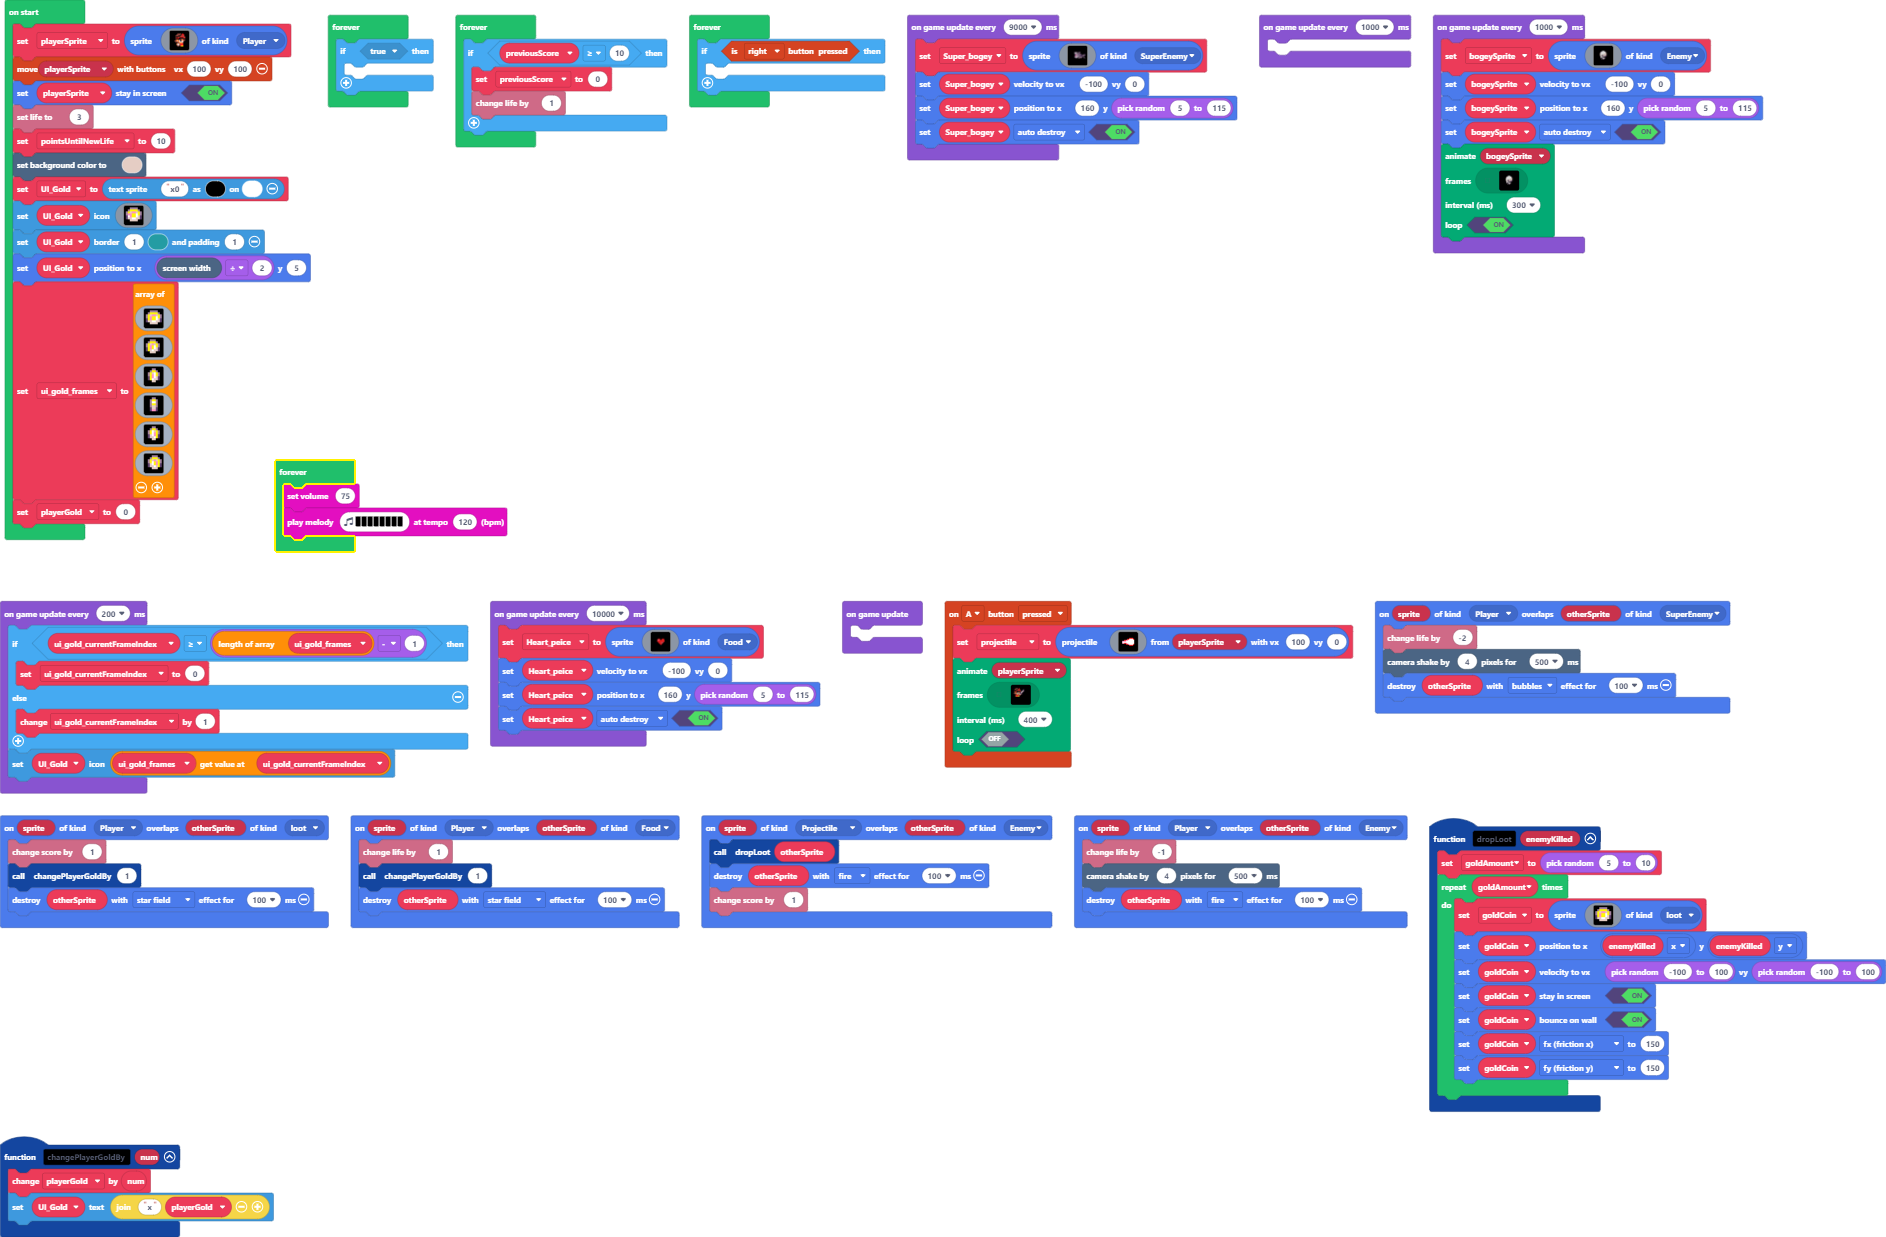
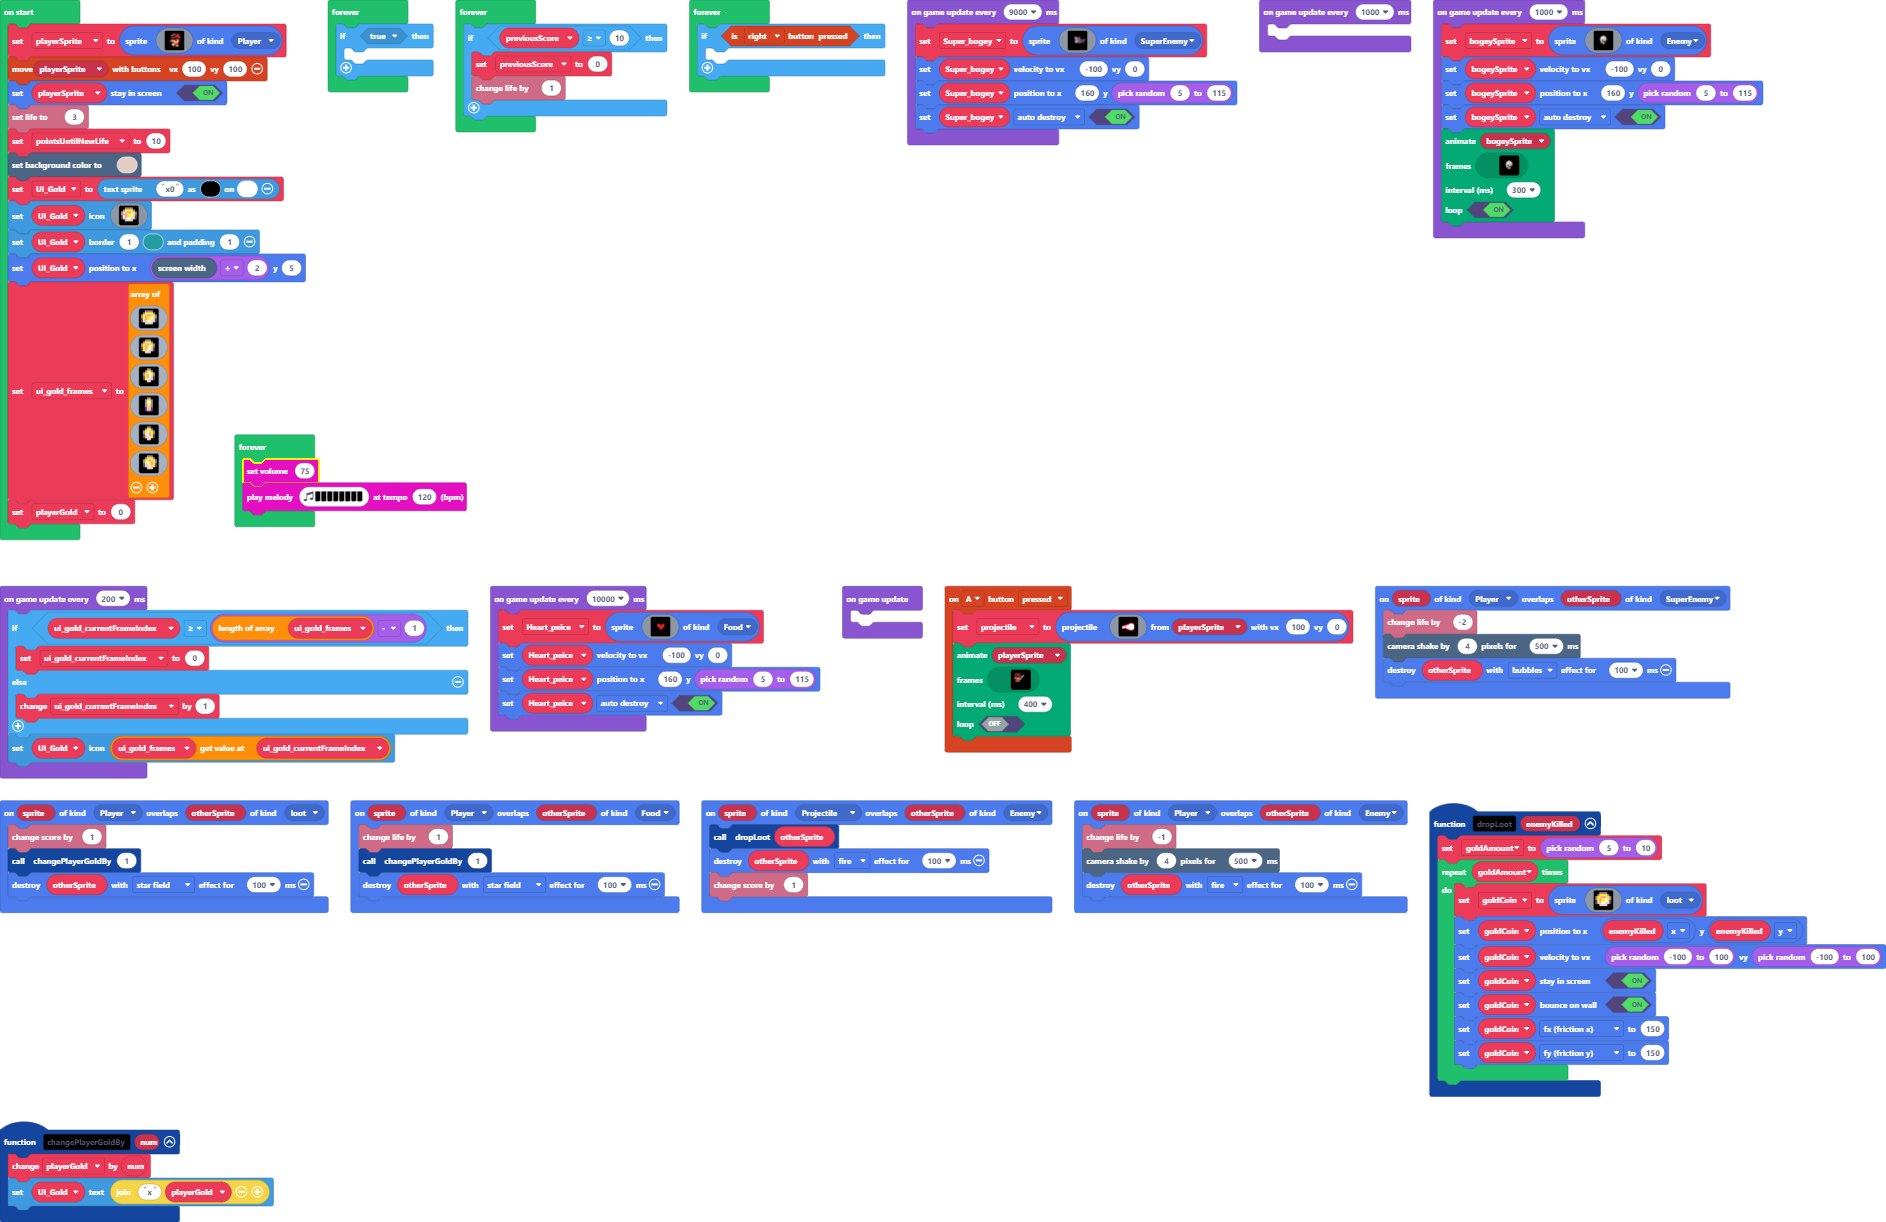
Update main.blocks, main.ts

Changed region(s): [[0.0, 0.0, 1.0, 0.9018], [0.123, 0.3421, 0.2768, 0.4664], [0.0, 0.9018, 0.1538, 0.9951]]

diff --git a/main.ts b/main.ts
@@ -1,5 +1,7 @@
 namespace SpriteKind {
     export const loot = SpriteKind.create()
+    export const SuperEnemy = SpriteKind.create()
+    export const Suploot = SpriteKind.create()
 }
 controller.A.onEvent(ControllerButtonEvent.Pressed, function () {
     projectile = sprites.createProjectileFromSprite(img`
@@ -123,9 +125,14 @@ controller.A.onEvent(ControllerButtonEvent.Pressed, function () {
         ........................
         ........................
         `],
-    100,
+    400,
     false
     )
+})
+sprites.onOverlap(SpriteKind.Player, SpriteKind.SuperEnemy, function (sprite, otherSprite) {
+    info.changeLifeBy(-2)
+    scene.cameraShake(4, 500)
+    otherSprite.destroy(effects.bubbles, 100)
 })
 function dropLoot (enemyKilled: Sprite) {
     goldAmount = randint(5, 10)
@@ -153,6 +160,11 @@ sprites.onOverlap(SpriteKind.Player, SpriteKind.loot, function (sprite, otherSpr
     changePlayerGoldBy(1)
     otherSprite.destroy(effects.starField, 100)
 })
+sprites.onOverlap(SpriteKind.Player, SpriteKind.Food, function (sprite, otherSprite) {
+    info.changeLifeBy(1)
+    changePlayerGoldBy(1)
+    otherSprite.destroy(effects.starField, 100)
+})
 function changePlayerGoldBy (num: number) {
     playerGold += num
     UI_Gold.setText("x" + playerGold)
@@ -167,8 +179,11 @@ sprites.onOverlap(SpriteKind.Player, SpriteKind.Enemy, function (sprite, otherSp
     scene.cameraShake(4, 500)
     otherSprite.destroy(effects.fire, 100)
 })
+let Heart_peice: Sprite = null
+let ui_gold_currentFrameIndex = 0
 let previousScore = 0
 let bogeySprite: Sprite = null
+let Super_bogey: Sprite = null
 let goldCoin: Sprite = null
 let goldAmount = 0
 let projectile: Sprite = null
@@ -186,8 +201,8 @@ UI_Gold.setIcon(img`
     . . b b b b . . 
     . b 5 5 5 5 b . 
     b 5 d 3 3 d 5 b 
-    b 5 3 5 5 1 5 b 
-    c 5 3 5 5 1 d c 
+    b 3 3 5 5 1 5 b 
+    c 1 3 5 5 1 d c 
     c d d 1 1 d d c 
     . f d d d d f . 
     . . f f f f . . 
@@ -256,9 +271,34 @@ img`
     . . . f f f . . 
     `
 ]
-let ui_gold_currentFrameIndex = 0
 playerGold = 0
 game.onUpdate(function () {
+	
+})
+game.onUpdateInterval(9000, function () {
+    Super_bogey = sprites.create(img`
+        ...........fffffff...ccfff..........
+        ..........fbbbbbbbffcbbbbf..........
+        ..........fbb111bbbbbffbf...........
+        ..........fb11111ffbbbbff...........
+        ..........f1cccc1ffbbbbbcff.........
+        ..........ffc1c1c1bbcbcbcccf........
+        ...........fcc3331bbbcbcbcccf..ccccc
+        ............c333c1bbbcbcbccccfcddbbc
+        ............c333c1bbbbbbbcccccddbcc.
+        ............c333c11bbbbbccccccbbcc..
+        ...........cc331c11bbbbccccccfbccf..
+        ...........cc13c11cbbbcccccbbcfccf..
+        ...........c111111cbbbfdddddc.fbbcf.
+        ............cc1111fbdbbfdddc...fbbf.
+        ..............cccfffbdbbfcc.....fbbf
+        ....................fffff........fff
+        `, SpriteKind.SuperEnemy)
+    Super_bogey.setVelocity(-100, 0)
+    Super_bogey.setPosition(160, randint(5, 115))
+    Super_bogey.setFlag(SpriteFlag.AutoDestroy, true)
+})
+game.onUpdateInterval(1000, function () {
 	
 })
 game.onUpdateInterval(1000, function () {
@@ -349,14 +389,15 @@ game.onUpdateInterval(1000, function () {
     )
 })
 forever(function () {
+    if (true) {
+    	
+    }
+})
+forever(function () {
     if (previousScore >= 10) {
         previousScore = 0
         info.changeLifeBy(1)
     }
-})
-forever(function () {
-    music.setVolume(75)
-    music.playMelody("A G F G F E D C ", 120)
 })
 forever(function () {
     if (controller.right.isPressed()) {
@@ -374,4 +415,31 @@ game.onUpdateInterval(200, function () {
         ui_gold_currentFrameIndex += 1
     }
     UI_Gold.setIcon(ui_gold_frames[ui_gold_currentFrameIndex])
+})
+game.onUpdateInterval(10000, function () {
+    Heart_peice = sprites.create(img`
+        ....................
+        ....................
+        ....................
+        ....................
+        ....................
+        ....................
+        .......22...22......
+        ......2322.2222.....
+        ......232222222.....
+        ......222222222.....
+        .......22222b2......
+        ........222b2.......
+        .........222........
+        ..........2.........
+        ....................
+        ....................
+        ....................
+        ....................
+        ....................
+        ....................
+        `, SpriteKind.Food)
+    Heart_peice.setVelocity(-100, 0)
+    Heart_peice.setPosition(160, randint(5, 115))
+    Heart_peice.setFlag(SpriteFlag.AutoDestroy, true)
 })
